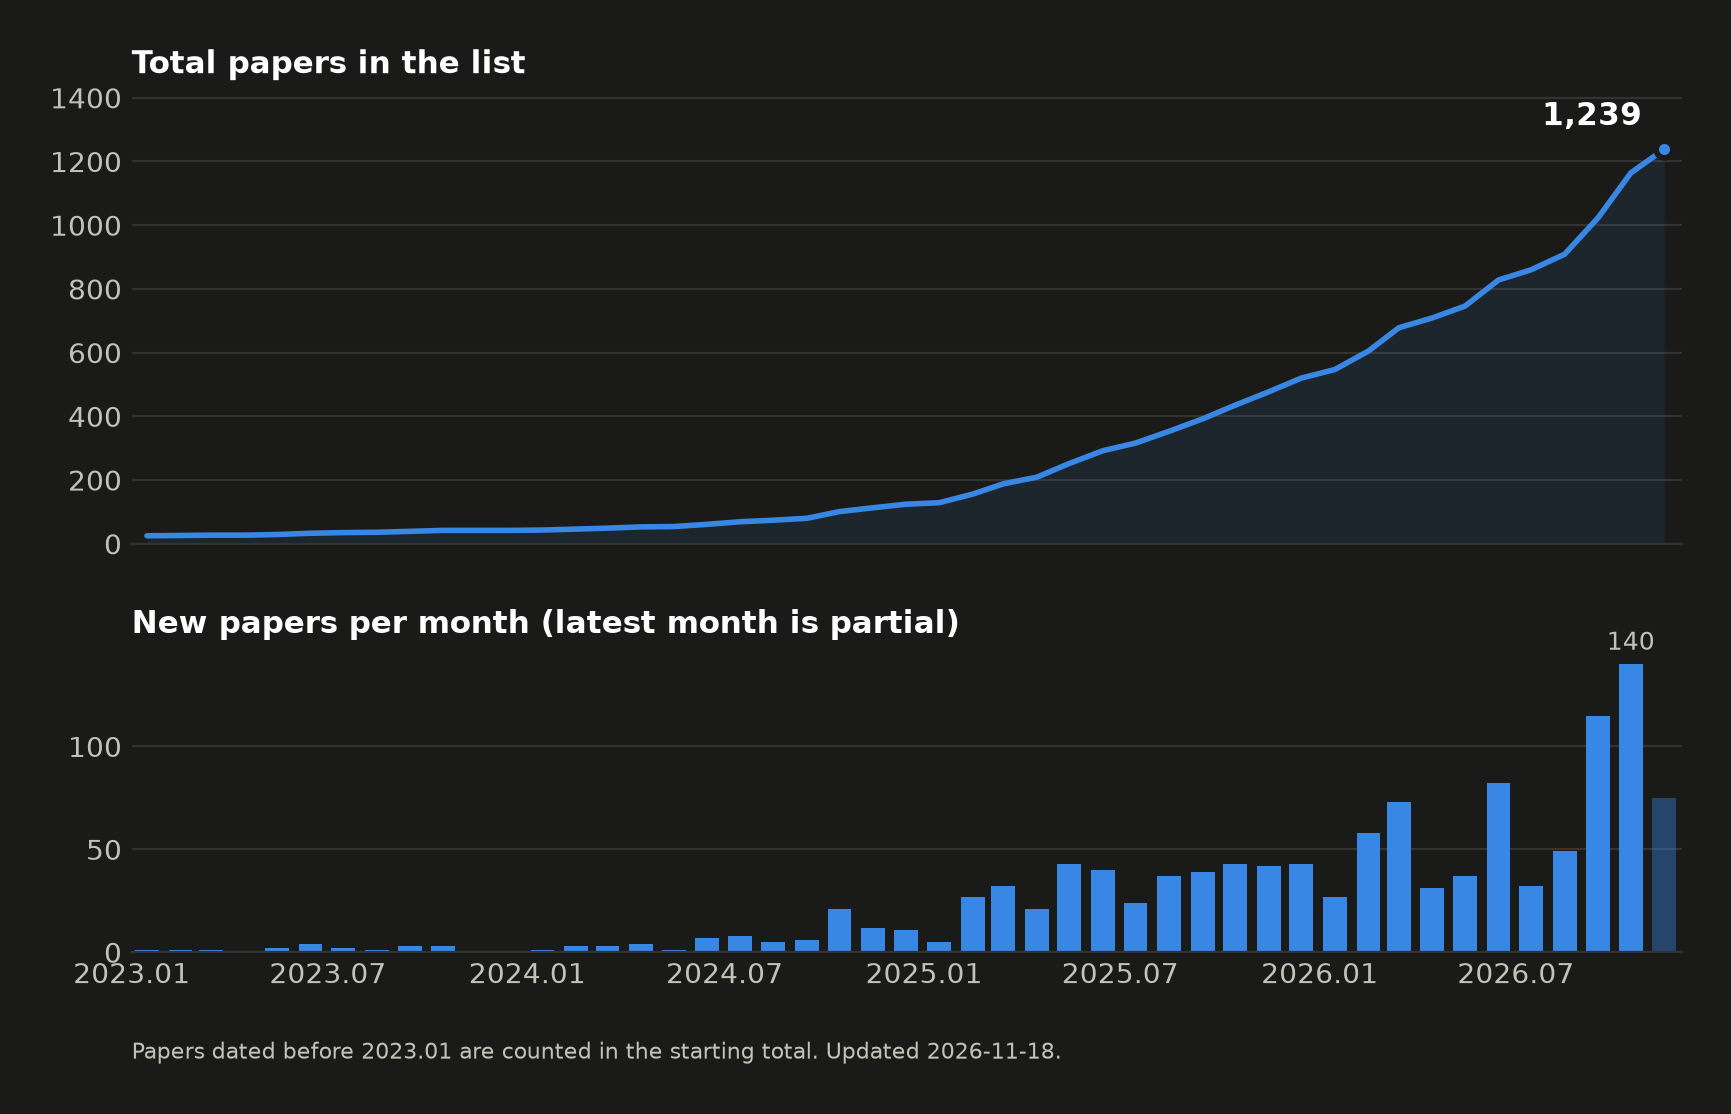
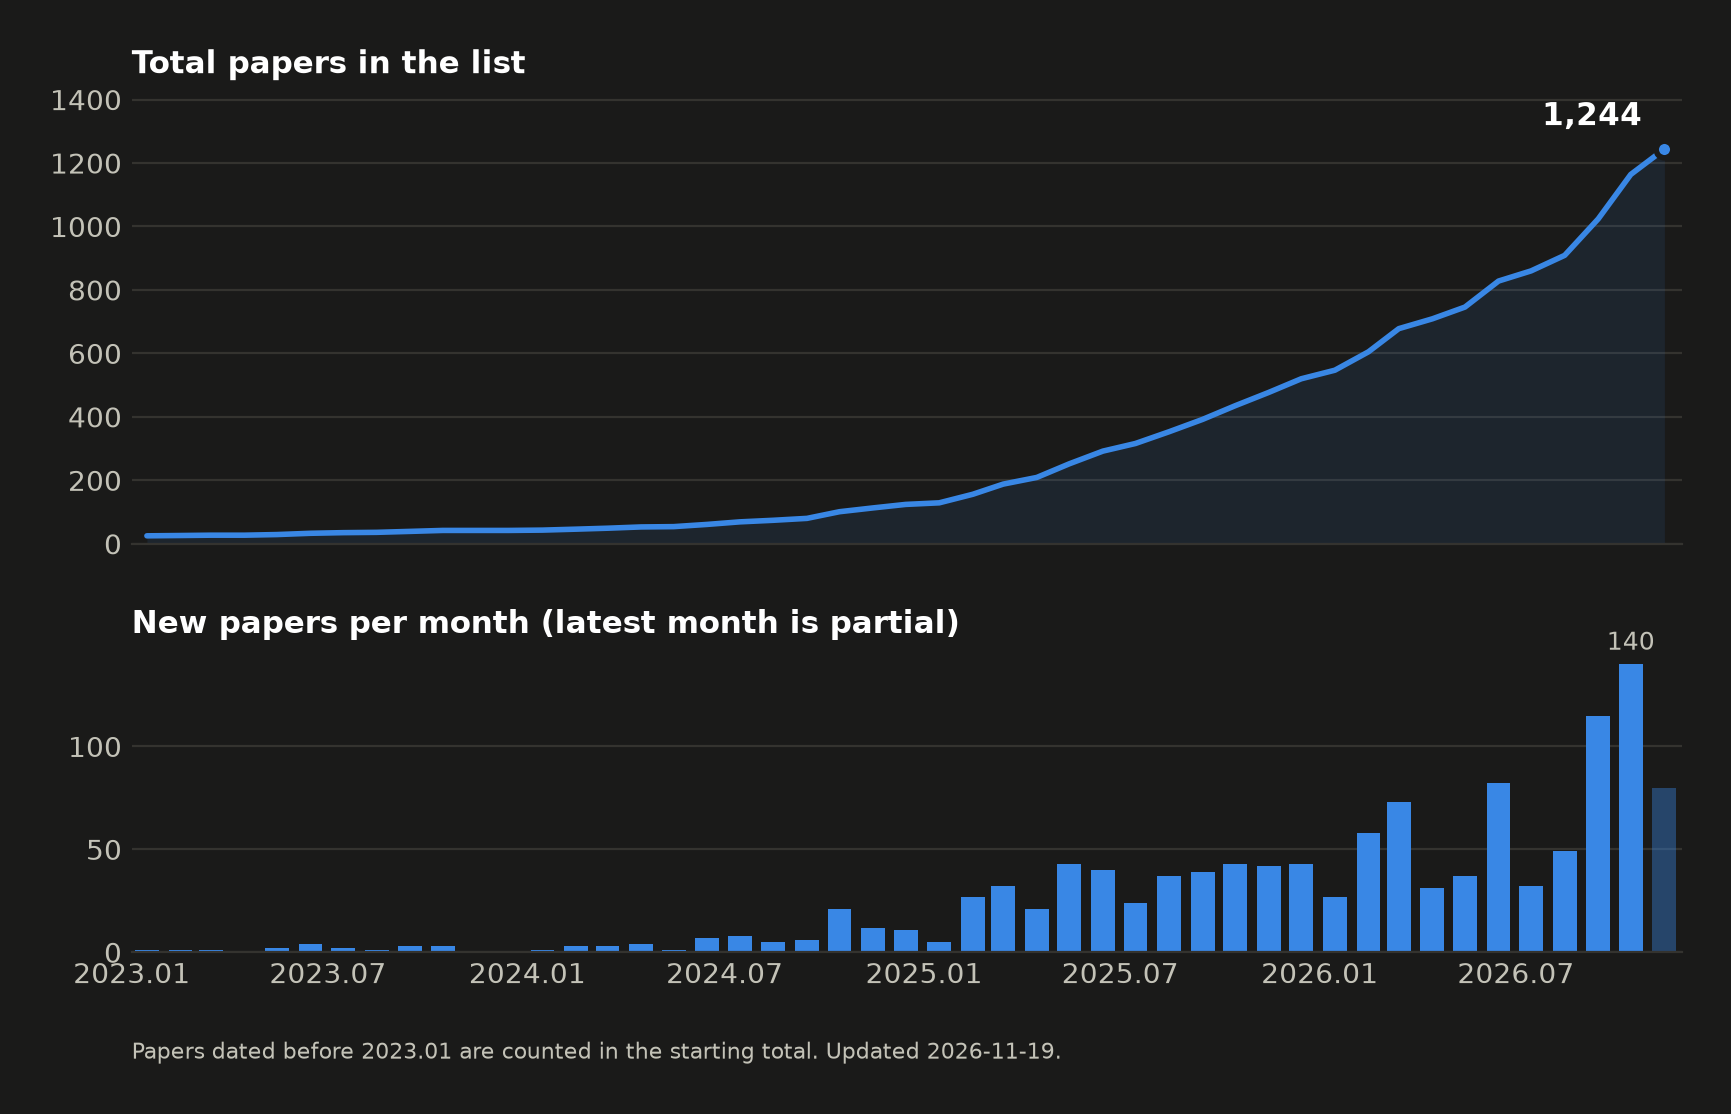
Add 5 papers from arXiv (2026-11-19)

diff --git a/README.md b/README.md
@@ -31,6 +31,7 @@ Feel free to pull a request for new papers/codes about humanoid robot learning.
 - [CoRL 2026.11](https://openreview.net/forum?id=93leGzRaPV), InfiniDanceRobot: A Streaming and Closed-Loop Music-driven Dance Generation for Humanoid Robot
 - [CoRL 2026.11](https://openreview.net/forum?id=qF26obIUEX), EVOLVE: Egocentric Vision-based Humanoid Loco-Manipulation via Demonstration Editing
 - [CoRL 2026.11](https://openreview.net/forum?id=wALhOwQWnx), Learning Functional Compliance in Whole-body Manipulation
+- [arXiv 2026.11.18](https://arxiv.org/abs/2611.24074), SemPhys: Semantic-Physical Co-Learning for Humanoid Motion Generation via Differentiable World Models
 - [arXiv 2026.11.17](https://arxiv.org/abs/2611.22713), Body Schema Policy: Body as the Vision-Action Interface for Efficient Robot Loco-Manipulation
 - [arXiv 2026.11.17](https://arxiv.org/abs/2611.22275), Heave-Ho: Decentralized Long-Horizon Multi-Humanoid Collaboration, [website](https://heaveho-humanoid.github.io/)
 - [arXiv 2026.11.17](https://arxiv.org/abs/2611.22258), ALERT: Extending Humanoid Motion Trackers with a General and Lightweight Human Avoidance Pipeline
@@ -560,6 +561,7 @@ Feel free to pull a request for new papers/codes about humanoid robot learning.
 - [2024.08](https://la.disneyresearch.com/publication/vmp-versatile-motion-priors-for-robustly-tracking-motion-on-physical-characters/), VMP: Versatile Motion Priors for Robustly Tracking Motion on Physical Characters, [website](https://la.disneyresearch.com/publication/vmp-versatile-motion-priors-for-robustly-tracking-motion-on-physical-characters/)
 - [2024.07](https://la.disneyresearch.com/publication/robot-motion-diffusion-model-motion-generation-for-robotic-characters/), Robot Motion Diffusion Model: Motion Generation for Robotic Characters,
 ## Manipulation
+- [arXiv 2026.11.18](https://arxiv.org/abs/2611.24940), Z-sight: Unifying Vision-Language-Action and Latent World Modeling, [website](https://junjieye.com/Z-sight/)
 - [arXiv 2026.11.13](https://arxiv.org/abs/2611.18976), TMA: Sim-to-Real Forceful Humanoid Manipulation via Tactile-Driven Motor Adaptation
 - [arXiv 2026.11.13](https://arxiv.org/abs/2611.18491), When Will You Hand It Over? A Hidden Start Delay Makes Self-Play Handover Robust to Unfamiliar Partners
 - [Humanoids 2026](https://arxiv.org/abs/2611.12409), Bridging Task Planning and Execution for Language-Conditioned Bimanual Manipulation
@@ -737,6 +739,7 @@ Feel free to pull a request for new papers/codes about humanoid robot learning.
 
 
 ## Locomotion
+- [arXiv 2026.11.18](https://arxiv.org/abs/2611.23916), ReLoco: Unified Humanoid Locomotion and Fall Recovery via Behavior-Conditioned Motion Priors
 - [arXiv 2026.11.17](https://arxiv.org/abs/2611.22445), Autonomous Track Racing with a Commercially Available Humanoid: System Design and Real-World Deployment
 - [arXiv 2026.11.16](https://arxiv.org/abs/2611.20888), Driving the Style: Velocity-Conditioned Whole-Body Control from Motion Demonstrations
 - [arXiv 2026.11.13](https://arxiv.org/abs/2611.18003), Reusing Locomotion Training Recipes Across Humanoids via Body-Aligned Virtual Joints
@@ -1069,6 +1072,7 @@ Feel free to pull a request for new papers/codes about humanoid robot learning.
 - [arXiv 2019.01](https://arxiv.org/abs/1901.08652), Learning Agile and Dynamic Motor Skills for Legged Robots
 
 ## Hardware Design
+- [arXiv 2026.11.18](https://arxiv.org/abs/2611.24279), QDD-MM: A Simple and Compact Open-Source Muscle Module with Quasi-Direct-Drive Motor for Tendon-driven Robots, [code](https://github.com/haraduka/qddmm)
 - [arXiv 2026.11.16](https://arxiv.org/abs/2611.20950), ROSE: A Shared Cross-Embodiment Facial-Motion Latent Space for Humanoid Robot Expression
 - [arXiv 2026.11](https://arxiv.org/abs/2611.05302), PACT: Pose-Robust Actuation Co-Design for Tendon-Driven Robotic Hands
 - [RA-L 2026](https://arxiv.org/abs/2611.04334), RAIPAL: A Powerful and Agile Humanoid Arm for Human Tasks
@@ -1191,6 +1195,7 @@ Feel free to pull a request for new papers/codes about humanoid robot learning.
 
 ## Physics-Based Character Animation
 - [SIGGRAPH 2010](https://dl.acm.org/doi/abs/10.1145/1833349.1778770?casa_token=j3esx-hx0GAAAAAA:OvRU6YYrNo2ZP9IyXGVDryWJqHmvU-oVhnzog8RFKKySQJjganzaAmHff6CQ4a0qzfJZu-J6Buf4Ug), Spatial relationship preserving character motion adaptation
+- [arXiv 2026.11.18](https://arxiv.org/abs/2611.23825), Learning Martial Arts Motion Skills for Animating Opponents in VR Sparring Games
 - [arXiv 2026.11.14](https://arxiv.org/abs/2611.19153), ImpedanceMimic: Learned Impedance as Action Space for Force-Accurate Motion Imitation, [website](https://impedancemimic.github.io/ImpedanceMimic/)
 - [CoRL 2026](https://arxiv.org/abs/2610.18147), Walk Like This: Stylized Locomotion for Physics-Based Characters through Example-Driven Diffusion
 - 🌟[arXiv 2026.10](https://arxiv.org/abs/2610.14911), Scalable Multi-Human Cooperative Manipulation via Commander-Executor Coordination
